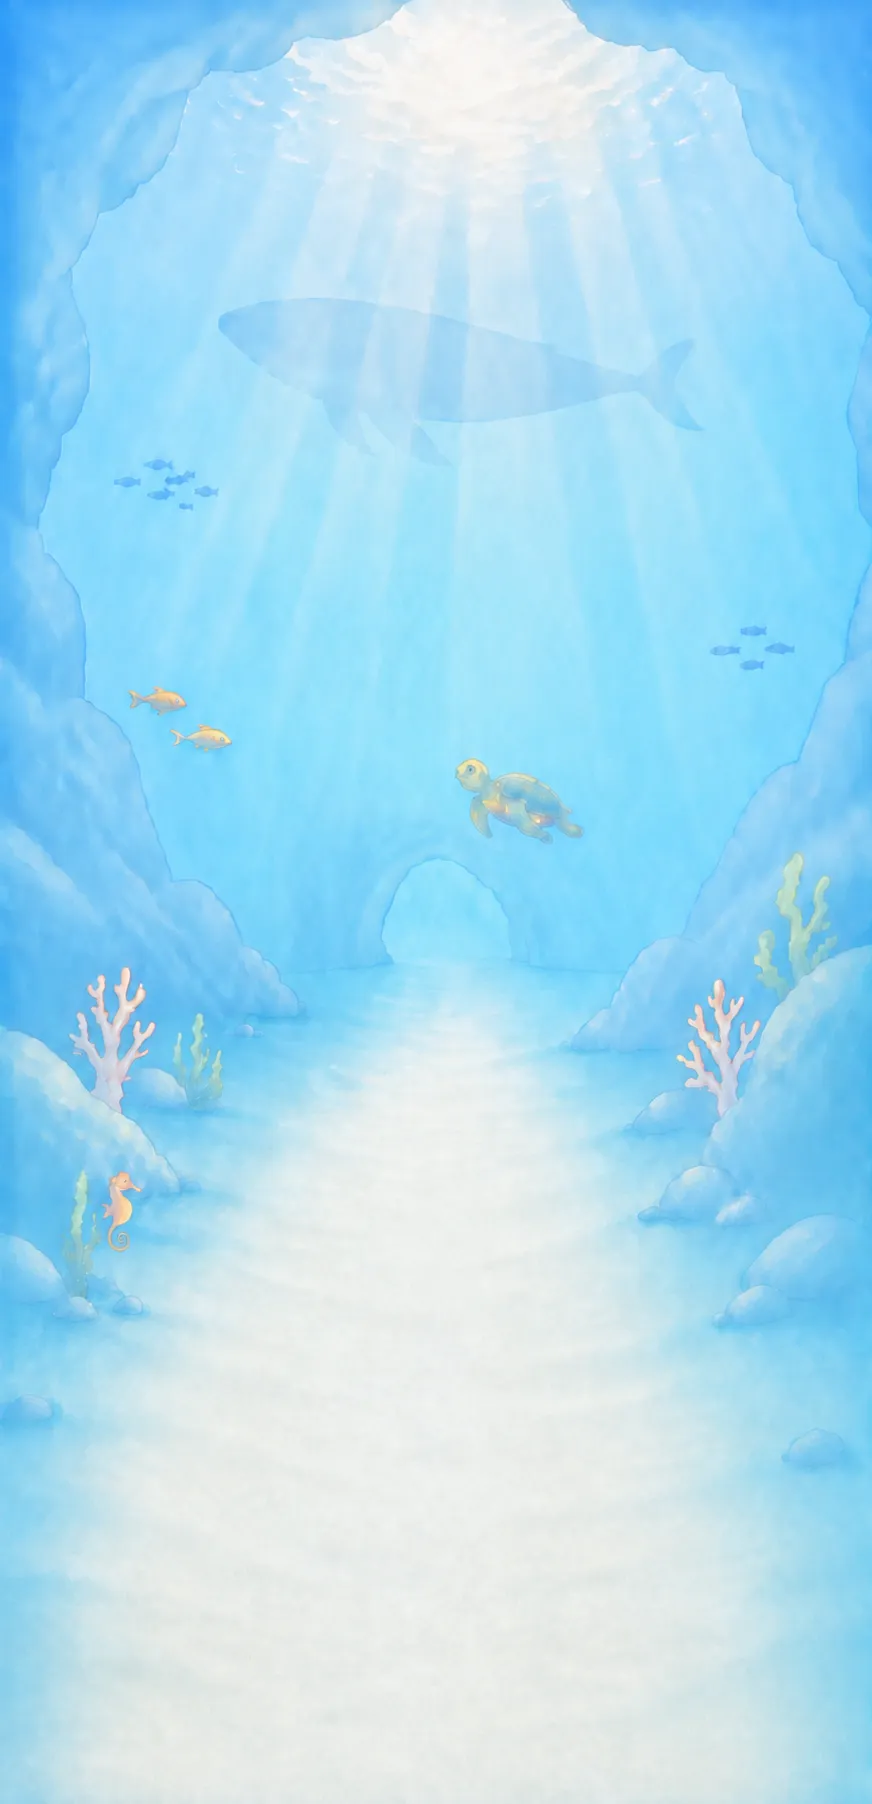
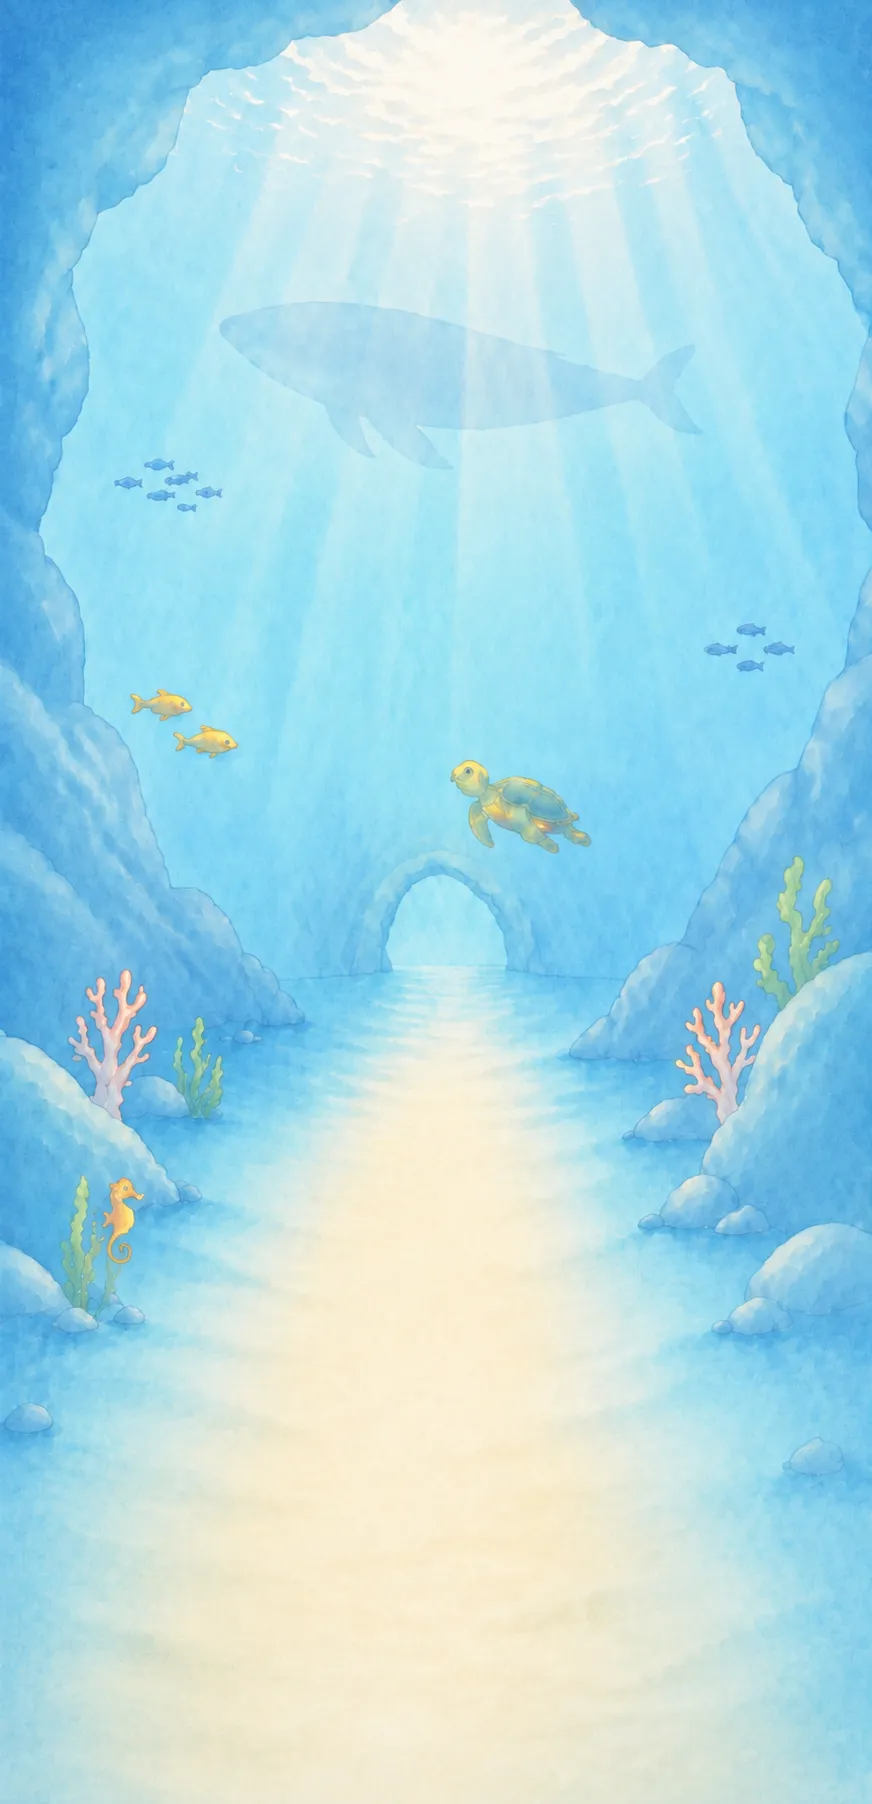
art: 꾸미기 배경 '깊은 바다' 원화 v11 교체 (해저 아치문 · 물고기 추가)
872×1804 = 1:2.069 — v10과 같은 크기다.

큰 틀(바위 협곡 사이 넓은 모랫길 · 위쪽 고래 실루엣 · 가운데 바다거북 ·
왼쪽 아래 해마 · 좌우 산호·해초 · 수면 빛줄기)은 v10과 같고 두 가지가 달라졌다.
- 모랫길 끝에 해저 아치문이 새로 생겨 길이 그 안으로 이어진다
  (다른 배경들의 '문' 소품과 결이 맞는다)
- 물고기가 늘었다 — 파란 무리 두 떼 · 노란 물고기 두 마리

물색도 v10의 거의 흰빛에서 다시 또렷한 하늘색으로 돌아왔다.
그만큼 결이 늘어 배포본이 41KB → 60KB.

deco 🫧 🐙 ✨ 🫧 🐚 · tint 0.10 · darkStage 끔 — v10 그대로라 코드 변경 없음.
(위쪽 수면이 흰빛이라 크림색 문구는 여전히 안 맞는다)

규칙 6에 따라 구버전 원본(bg-deepsea-v10-src.webp)과 README 행은 지웠다.
배포본 q80(60KB), art-src 원본 q92(164KB).

vite build 통과. 390×844 화면으로 확인했다.

Claude-Session: https://claude.ai/code/session_018maNuYqDfFyRSe9uKpZhPR

diff --git a/art-src/README.md b/art-src/README.md
@@ -228,7 +228,7 @@ getBoundingClientRect로 재서 정한다. 2026-08-05 점검에서 이 기준을
 | adventure-map-short-v3-src.webp | 탐험지도 짧은 판 v3 (922×1706 — 학원 0~3곳용). v2와 길이 거의 같아(기존 85점 중 83점이 그대로 길 위) 좌표는 손대지 않았다 | adventure-map-short.webp |
 | camp-bag-v2-src.webp | 캐릭터 탭 가방 카드 '빈 틀' v2 (1260×860 = 비율 1.465, 투명 = 표시 359px의 3.5배). 세로는 그대로 두고 가로만 넓힌 판 — 종이면이 넓어져 "👑 Lv.20 전설의 탐험가"가 한 줄에 들어간다. 안쪽 종이면 x 9.9~90.0% · y 24.1~86.7%(실측)에 레벨·진행막대·코인/XP를 앱이 그린다 — 값이 매일 바뀌므로 그림에 넣지 않는다. 좁은 v1(1000×862)은 규칙 6에 따라 삭제 | camp/bag.webp |
 | camp-{deco,item,box,pet,book,title,streak,history}-v2-src.webp | 캐릭터 탭 격자 아이콘 **8종 전부** (490×490 정사각 = 표시 138px의 3.5배, 받침 없이 캔버스를 꽉 채운 판). 앱이 정사각 칸에 objectFit:contain 으로 넣으므로 여덟 칸의 무게가 저절로 맞는다. 그루터기 붙은 v1은 규칙 6에 따라 삭제 | camp/st-*.webp |
-| bg-deepsea-v10-src.webp | 꾸미기 배경 '깊은 바다' 원화 v10 (872×1804 = 1:2.069 — 무대 칸 1:2.09 와 거의 같아 좌우가 아주 조금 잘린다). v9와 구도·소품은 그대로다(바위 협곡 사이 넓은 모랫길 · 위쪽 고래 실루엣 · 가운데 바다거북 · 왼쪽 아래 해마 · 좌우 산호·해초 · 수면 빛줄기) — 전체가 한층 밝고 부드러워졌다. 모랫길이 거의 흰빛에 가깝게 밝아지고 물색도 옅어졌으며 바위 결이 매끈해졌다. 그 덕에 압축이 잘 먹어 배포본이 41KB — 지금까지 배경 중 가장 가볍다(v9는 75KB). deco 🫧 🐙 ✨ 🫧 🐚 · tint 0.10 · darkStage 끔 — v9 그대로다. 받은 그대로 톤 보정 없음. art-src 는 q92(107KB), 배포본은 q80(41KB) | stage-bg-deepsea.webp |
+| bg-deepsea-v11-src.webp | 꾸미기 배경 '깊은 바다' 원화 v11 (872×1804 = 1:2.069 — v10과 같은 크기, 무대 칸 1:2.09 와 거의 같아 좌우가 아주 조금 잘린다). 큰 틀(바위 협곡 사이 넓은 모랫길 · 위쪽 고래 실루엣 · 가운데 바다거북 · 왼쪽 아래 해마 · 좌우 산호·해초 · 수면 빛줄기)은 v10과 같지만 두 가지가 달라졌다 — ① 모랫길 끝에 **해저 아치문**이 새로 생겨 길이 그 안으로 이어진다(다른 배경들의 '문' 소품과 결이 맞는다), ② 물고기가 늘었다(파란 무리 두 떼 · 노란 물고기 두 마리). 물색도 v10의 거의 흰빛에서 다시 또렷한 하늘색으로 돌아왔다. 그만큼 결이 늘어 배포본이 41KB → 60KB. deco 🫧 🐙 ✨ 🫧 🐚 · tint 0.10 · darkStage 끔 — v10 그대로다(위쪽 수면이 흰빛이라 크림색 문구가 안 읽힌다). 받은 그대로 톤 보정 없음. art-src 는 q92(164KB), 배포본은 q80(60KB) | stage-bg-deepsea.webp |
 | bg-dino-v3-src.webp | 꾸미기 배경 '공룡 섬' 원화 v3 (865×1819 = 1:2.10 — 무대 칸 1:2.09 와 거의 같다). v2와 구도·소품은 그대로고 하늘만 달라진 판 — 왼쪽 위에 큰 뭉게구름이 들어오고 오른쪽에도 구름이 더해져 하늘이 덜 비어 보인다. 초원도 살짝 진해졌다. 구도가 같아 deco·tint·darkStage 는 v2 설정 그대로 둔다. 받은 그대로 톤 보정 없음. art-src 는 q92(197KB), 배포본은 q80(78KB) | stage-bg-dino.webp |
 | bg-space-v4-src.webp | 꾸미기 배경 '우주 탐사' 원화 v4 (870×1808 = 1:2.078 — 무대 칸 1:2.09 와 사실상 같아 잘리는 데가 없다). v3과 구도·소품은 그대로다(아래 지구의 둥근 지평선이 아이가 서는 바닥, 오른쪽 위 보름달, 왼쪽 토성, 작은 위성 둘, 가운데를 가로지르는 로켓, 은하수 띠) — 파랑이 한층 진하고 선명해졌으며 지구가 커지고 구름결이 또렷해졌다. deco 는 ☄ 🛸 🌠 — v2부터 같다(🚀 🪐 🌎 🌙 ⭐ 🌌 는 그림에 이미 다 있다). tint 0.12 · darkStage 유지(밤하늘이라 응원문구는 크림색). 받은 그대로 톤 보정 없음. art-src 는 q92(167KB), 배포본은 q80(53KB) | stage-bg-space.webp |
 | bg-jungle-v4-src.webp | 꾸미기 배경 '정글 원정대' 원화 v4 (869×1810 = 1:2.083 — 무대 칸 1:2.09 와 사실상 같아 잘리는 데가 없다). v3과 구도·소품은 그대로다(개울 건너는 큰 징검다리 위에 아이가 서고, 길 끝에 코끼리, 왼쪽 나무에 나무늘보, 오른쪽 가지에 큰부리새, 멀리 산) — 전체가 노란빛 쪽으로 한 톤 따뜻해지고 징검다리가 커졌으며 멀리 산이 또렷해졌다. deco 🐒 🐍 🌺 · tint 연한 초록 0.10 · darkStage 끔 — v1부터 같은 설정이다(그림에 원숭이·뱀·꽃이 없고, 위쪽이 밝은 연둣빛이라 크림색 문구가 안 읽힌다). 받은 그대로 톤 보정 없음. art-src 는 q92(181KB), 배포본은 q80(74KB) | stage-bg-jungle.webp |
